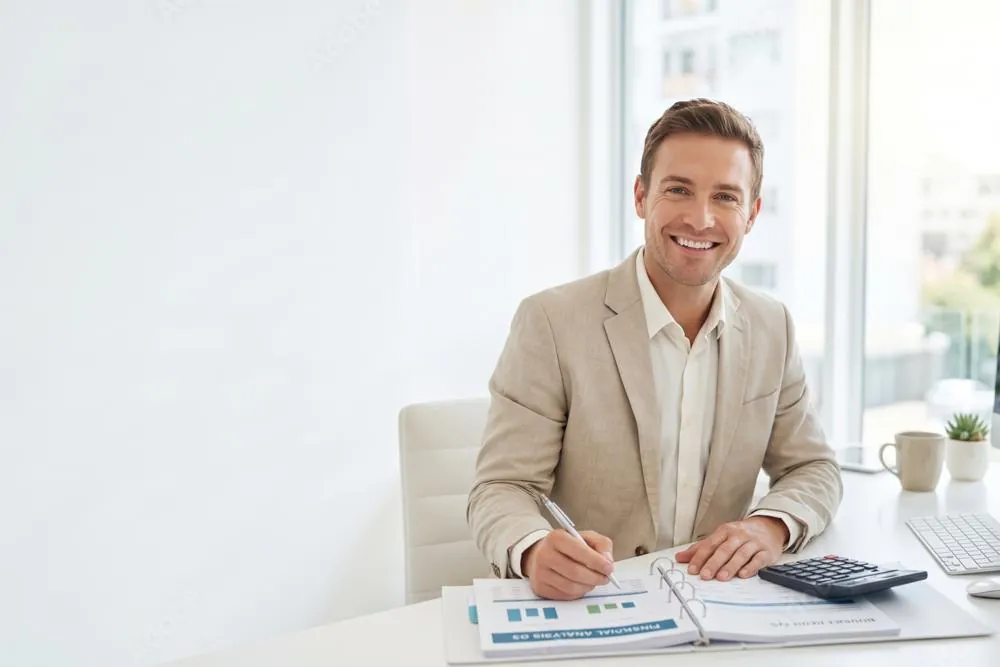
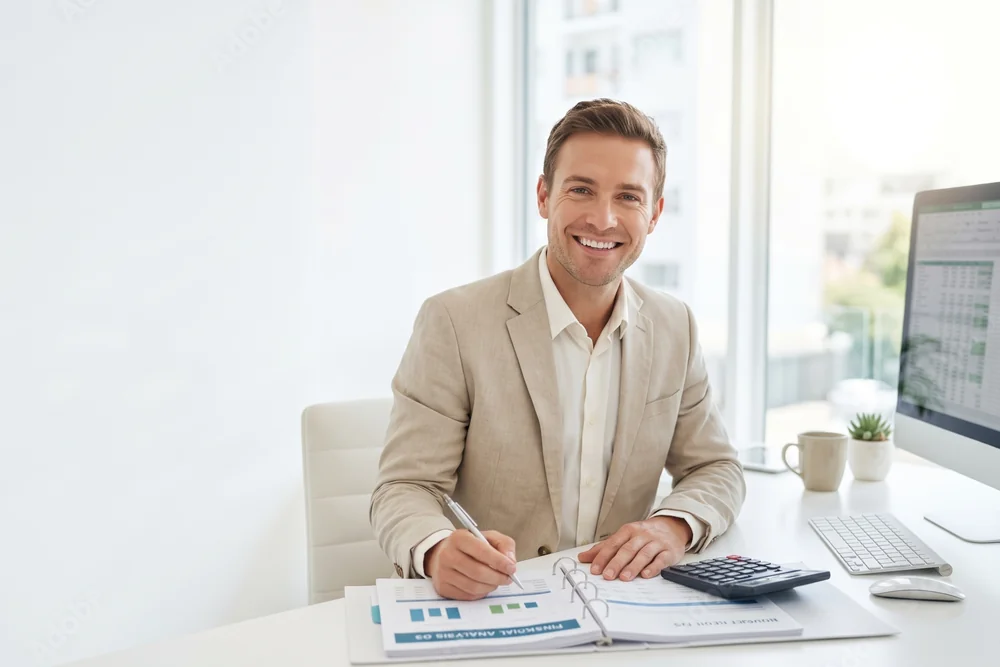
Hub: EA card photo panned right so the monitor shows (boss), cache-bust v=a6d55043f3

diff --git a/index.html b/index.html
@@ -217,7 +217,7 @@
   <h2 class="choose-h" data-ko="어떤 자격증을 준비 중이신가요?" data-en="Which license are you working toward?">Which license are you working toward?</h2>
   <div class="doors">
     <div class="door ea">
-      <a class="photo" href="/ea/" aria-label="Enrolled Agent (EA)"><img src="/img/door-ea.webp" width="1000" height="667" alt="Tax professional working at a desk" fetchpriority="high"></a>
+      <a class="photo" href="/ea/" aria-label="Enrolled Agent (EA)"><img src="/img/door-ea.webp?v=a6d55043f3" width="1000" height="667" alt="Tax professional working at a desk" fetchpriority="high"></a>
       <div class="body">
         <h2 data-ko="미국 세무사, EA" data-en="Enrolled Agent, EA">Enrolled Agent, EA</h2>
         <p data-ko="IRS 특별등록시험(SEE) Part 1·2·3. 2026 시험 대비, 2025 세법 기준으로 한글·영어 해설을 함께 드립니다." data-en="IRS Special Enrollment Exam, Parts 1, 2 and 3. Built for the 2026 exam on 2025 tax law.">IRS Special Enrollment Exam, Parts 1, 2 and 3. Built for the 2026 exam on 2025 tax law.</p>
